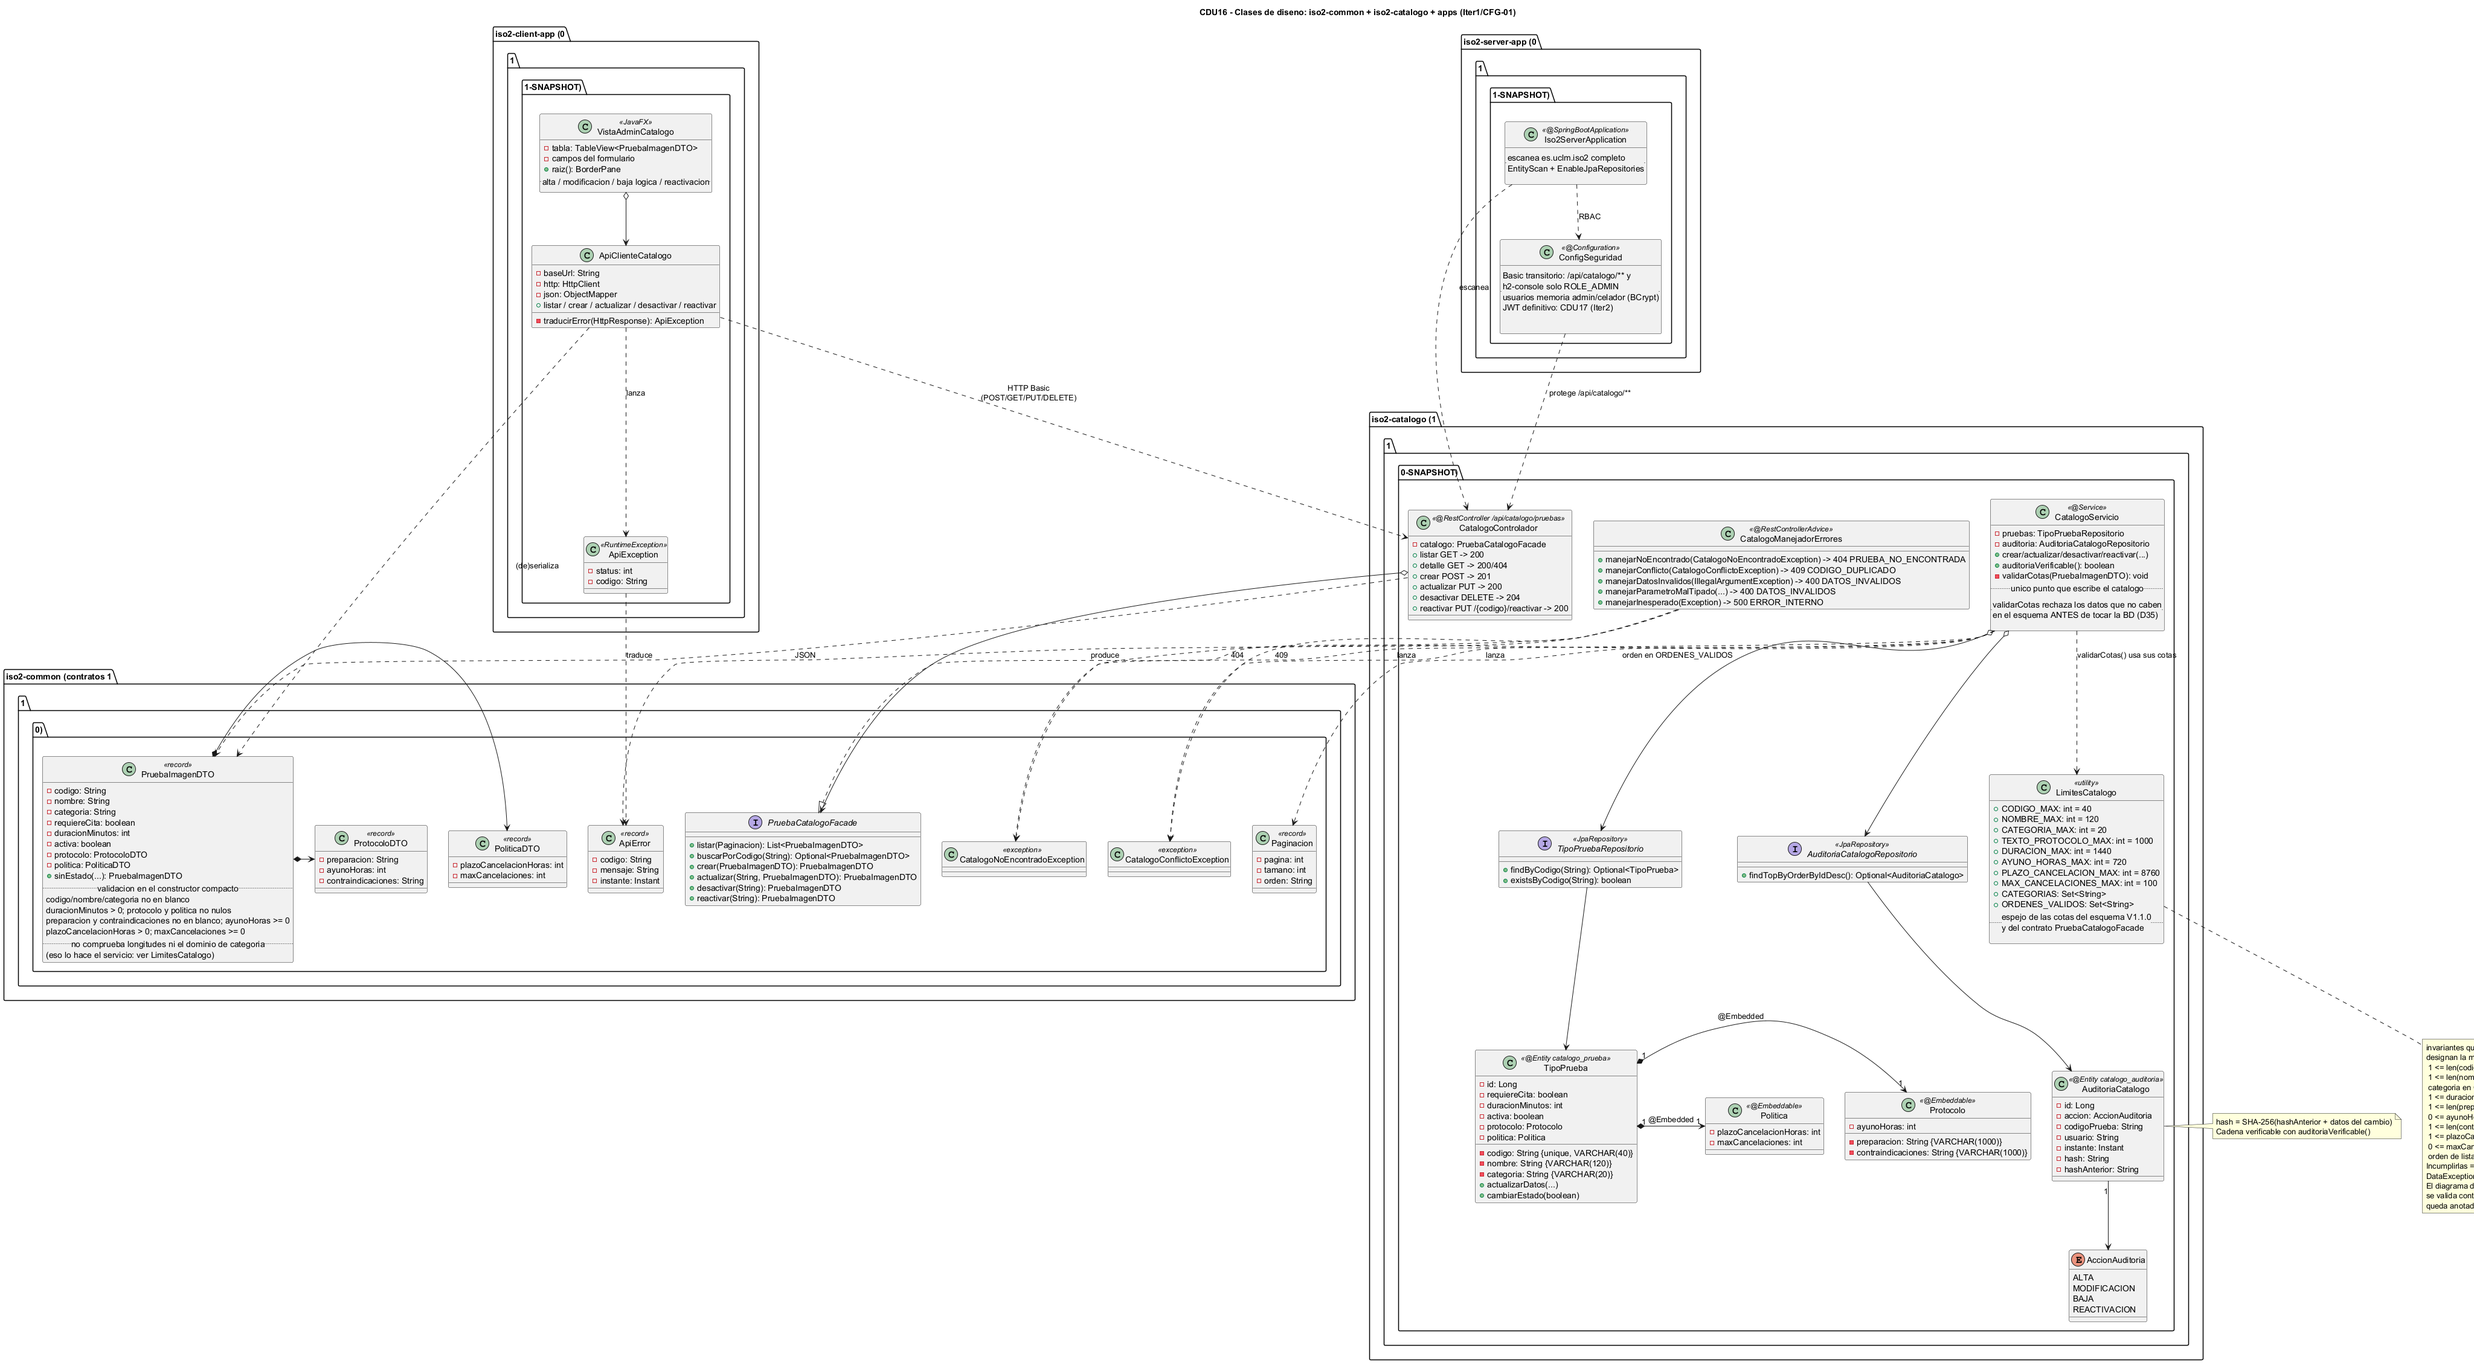
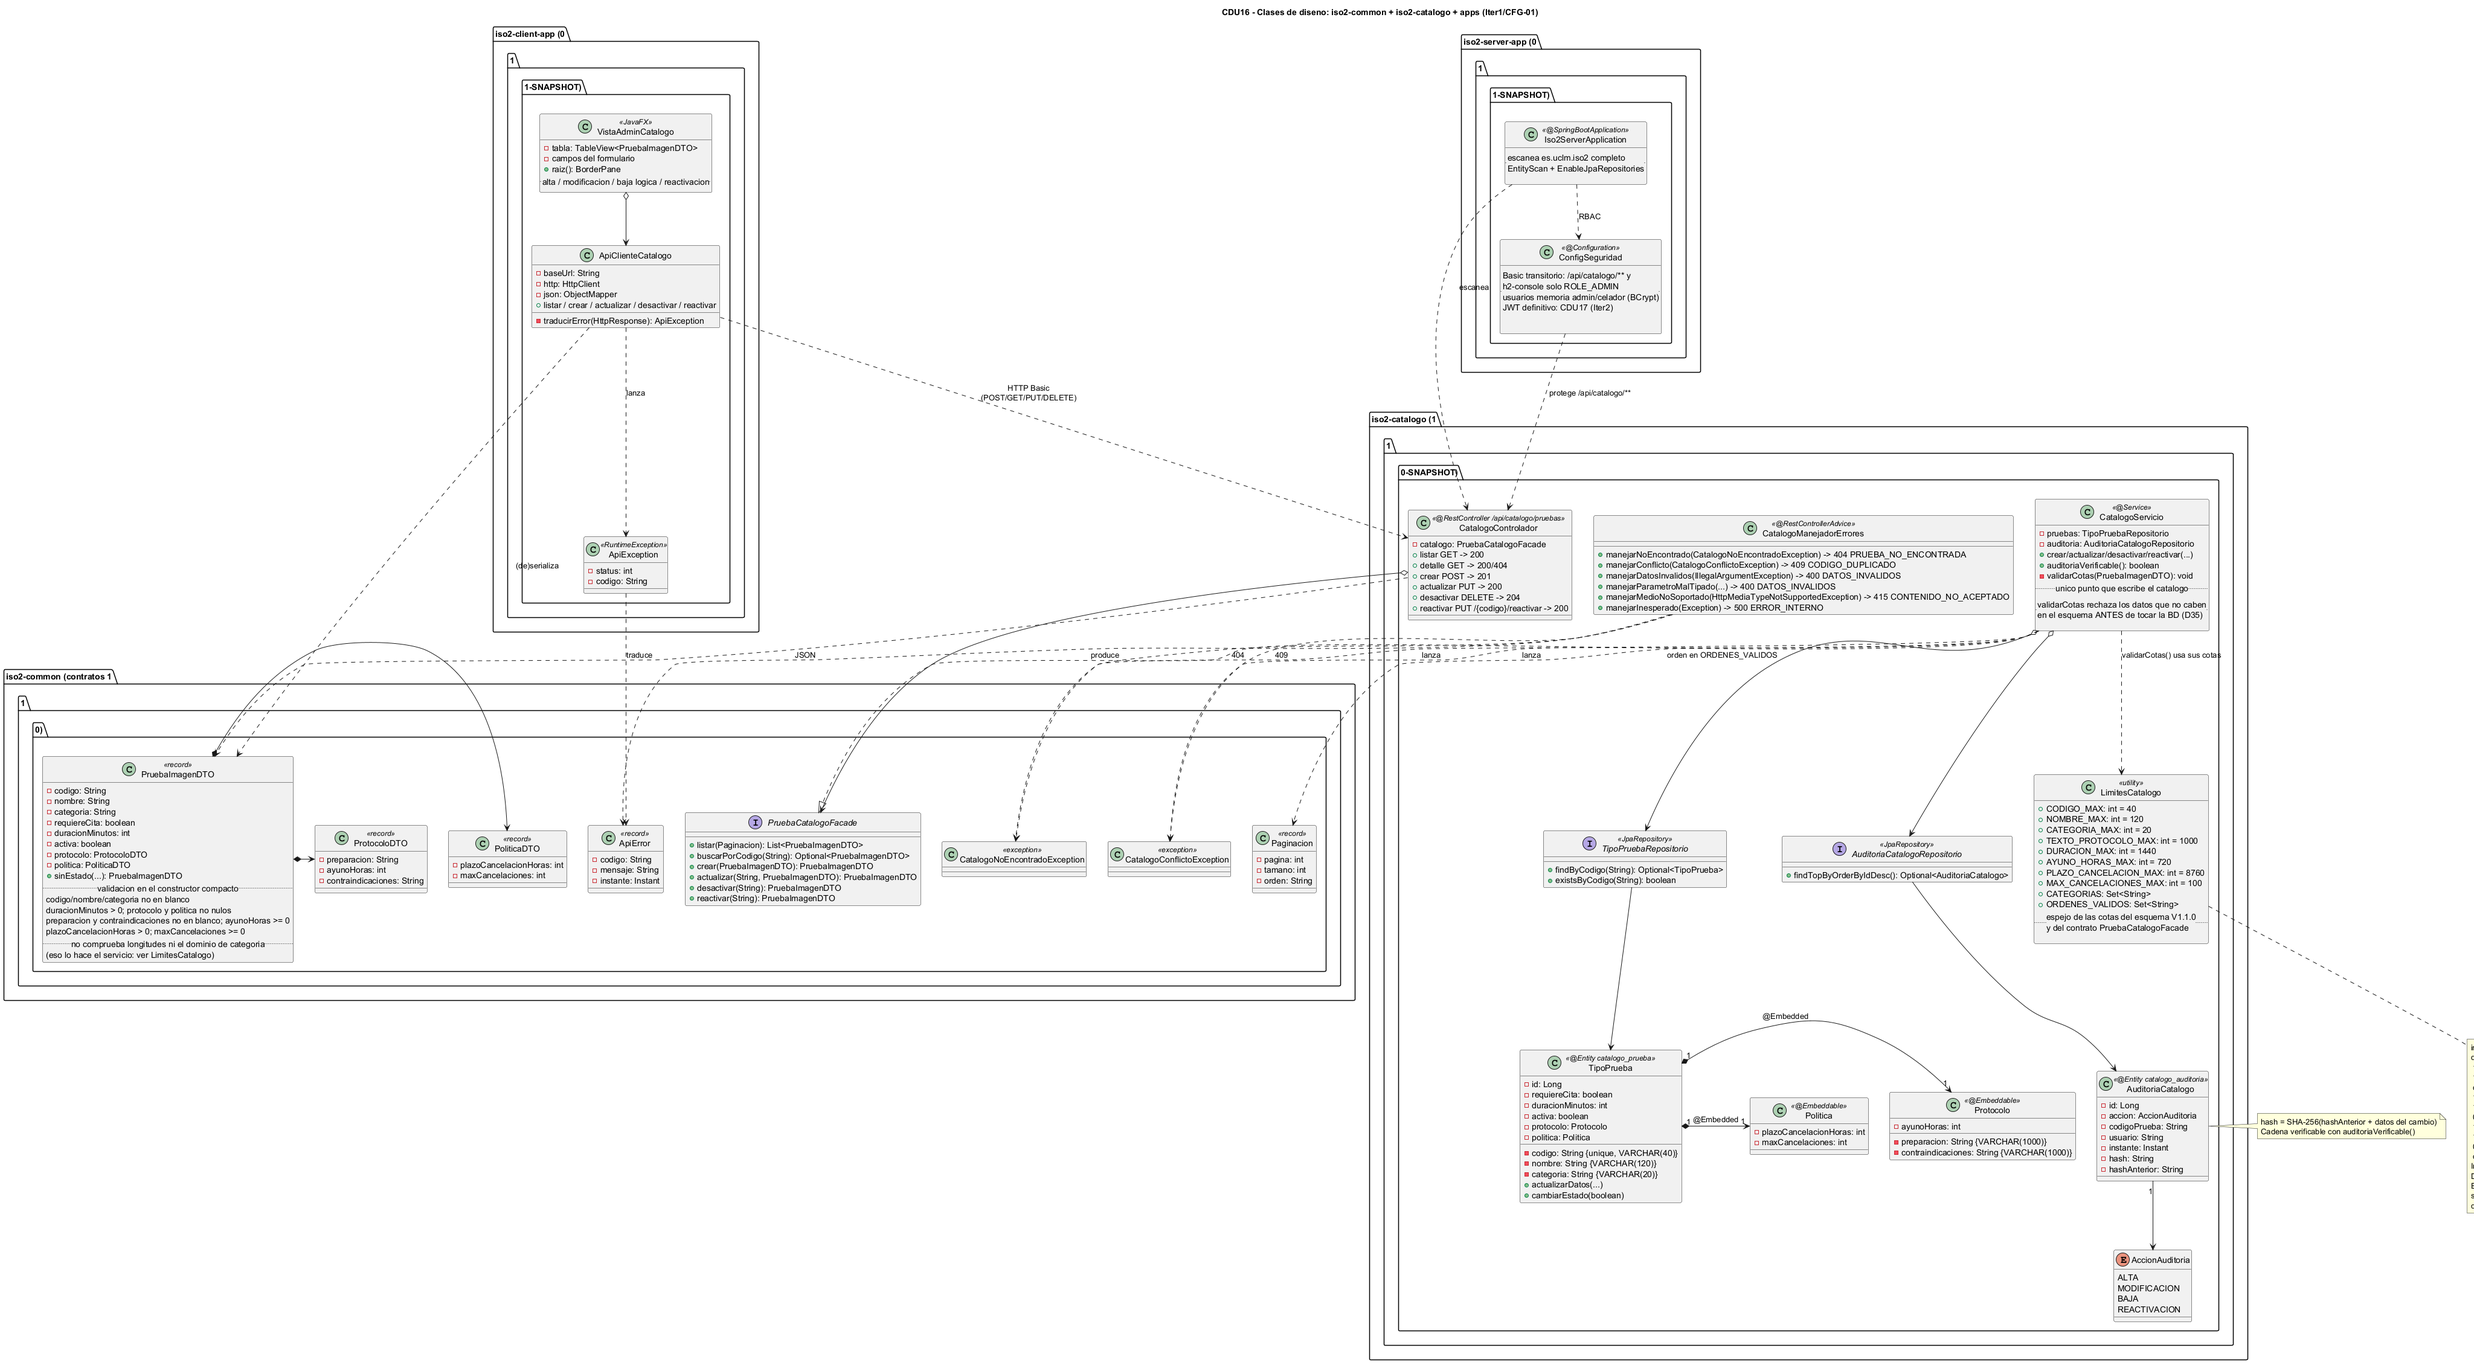
feat(iso2-catalogo · Iter1/CDU16): aplicar las cotas del catálogo y el 415 del contrato (D35)
- LimitesCatalogo centraliza las cotas del esquema (codigo 40, nombre 120,
  categoria 20, texto de protocolo 1000), los maximos administrativos y las
  listas blancas de categorias y de ordenes de listado.
- CatalogoServicio valida esas cotas en crear y actualizar antes de tocar la
  base de datos: los textos por encima del VARCHAR llegaban al INSERT y la API
  respondia 500.
- CatalogoManejadorErrores captura los parametros de consulta mal tipados
  (?pagina=abc) con 400 DATOS_INVALIDOS y el medio no soportado (text/plain)
  con 415 CONTENIDO_NO_ACEPTADO; ambos caian antes en el capturador general.
- CatalogoControlador.detalle responde 404 con cuerpo ApiError(PRUEBA_NO_ENCONTRADA).
- El .puml y el PNG de diseño de iter01 reflejan el capturador 415 antes de
  programarlo (D31).

Ref: #35

diff --git a/iso2-catalogo/src/main/java/es/uclm/iso2/catalogo/servicio/CatalogoServicio.java b/iso2-catalogo/src/main/java/es/uclm/iso2/catalogo/servicio/CatalogoServicio.java
@@ -32,6 +32,11 @@ import org.springframework.transaction.annotation.Transactional;
  * el del registro anterior; el usuario se toma del contexto de seguridad (HttpBasic hasta
  * CDU17, JWT a partir de entonces) y se registra como {@code sistema} si no hay autenticacion.</p>
  *
+ * <p>Antes de escribir, {@link #crear(PruebaImagenDTO)} y {@link #actualizar(String, PruebaImagenDTO)}
+ * comprueban las cotas del esquema en {@link LimitesCatalogo} (D35): un dato que no cabe en
+ * la base de datos se rechaza aqui con {@link IllegalArgumentException} (400 en la API) y
+ * nunca llega al INSERT.</p>
+ *
  * @since 1.1.0 (CFG-01)
  */
 @Service
@@ -71,6 +76,7 @@ public class CatalogoServicio implements PruebaCatalogoFacade {
     @Override
     @Transactional
     public PruebaImagenDTO crear(PruebaImagenDTO prueba) {
+        validarCotas(prueba);
         if (pruebas.existsByCodigo(prueba.codigo())) {
             throw new CatalogoConflictoException(
                     "el codigo de prueba " + prueba.codigo() + " ya existe en el catalogo");
@@ -90,6 +96,7 @@ public class CatalogoServicio implements PruebaCatalogoFacade {
             throw new IllegalArgumentException(
                     "el codigo del cuerpo (" + prueba.codigo() + ") no coincide con la ruta (" + codigo + ")");
         }
+        validarCotas(prueba);
         TipoPrueba entidad = buscarEntidad(codigo);
         entidad.actualizarDatos(prueba.nombre(), prueba.categoria(), prueba.requiereCita(),
                 prueba.duracionMinutos(), aProtocolo(prueba.protocolo()), aPolitica(prueba.politica()));
@@ -146,14 +153,61 @@ public class CatalogoServicio implements PruebaCatalogoFacade {
                 .orElseThrow(() -> new CatalogoNoEncontradoException(codigo));
     }
 
+    /**
+     * Comprueba las cotas del esquema que el contrato comun no mira: longitudes, el dominio
+     * de {@code categoria} y los maximos de los enteros (D35).
+     *
+     * <p>Se ejecuta antes de tocar la base de datos, en el alta y en la modificacion. Su
+     * mision es que un dato que no cabe devuelva 400 con {@code DATOS_INVALIDOS}: sin esta
+     * comprobacion el texto largo llegaba al INSERT y la {@code DataException} acababa en el
+     * capturador generico como un 500.</p>
+     *
+     * <p>El contrato ya descarta los nulos, los textos en blanco y los negativos, asi que
+     * aqui solo se comprueba la parte alta del rango.</p>
+     *
+     * @param prueba datos de la prueba recibidos por la API
+     * @throws IllegalArgumentException si alguna cota se pasa de su limite o la categoria no
+     *                                  esta entre las admitidas
+     */
+    private static void validarCotas(PruebaImagenDTO prueba) {
+        exigirLongitud(prueba.codigo(), LimitesCatalogo.CODIGO_MAX, "el codigo de prueba");
+        exigirLongitud(prueba.nombre(), LimitesCatalogo.NOMBRE_MAX, "el nombre de prueba");
+        exigirLongitud(prueba.categoria(), LimitesCatalogo.CATEGORIA_MAX, "la categoria de prueba");
+        if (!LimitesCatalogo.CATEGORIAS.contains(prueba.categoria())) {
+            throw new IllegalArgumentException("categoria no admitida en el catalogo: " + prueba.categoria());
+        }
+        exigirMax(prueba.duracionMinutos(), LimitesCatalogo.DURACION_MAX, "la duracion en minutos");
+        exigirLongitud(prueba.protocolo().preparacion(), LimitesCatalogo.TEXTO_PROTOCOLO_MAX,
+                "la preparacion del protocolo");
+        exigirMax(prueba.protocolo().ayunoHoras(), LimitesCatalogo.AYUNO_HORAS_MAX, "las horas de ayuno");
+        exigirLongitud(prueba.protocolo().contraindicaciones(), LimitesCatalogo.TEXTO_PROTOCOLO_MAX,
+                "las contraindicaciones del protocolo");
+        exigirMax(prueba.politica().plazoCancelacionHoras(), LimitesCatalogo.PLAZO_CANCELACION_MAX,
+                "el plazo de cancelacion en horas");
+        exigirMax(prueba.politica().maxCancelaciones(), LimitesCatalogo.MAX_CANCELACIONES_MAX,
+                "el maximo de cancelaciones");
+    }
+
+    private static void exigirLongitud(String valor, int max, String campo) {
+        if (valor.length() > max) {
+            throw new IllegalArgumentException(campo + " no puede superar los " + max + " caracteres");
+        }
+    }
+
+    private static void exigirMax(int valor, int max, String campo) {
+        if (valor > max) {
+            throw new IllegalArgumentException(campo + " no puede superar el valor " + max);
+        }
+    }
+
     private static String permitido(String orden) {
         if (orden == null || orden.isBlank()) {
             return ORDEN_POR_DEFECTO;
         }
-        return switch (orden) {
-            case "codigo", "nombre", "categoria", "duracionMinutos" -> orden;
-            default -> throw new IllegalArgumentException("campo de orden no permitido: " + orden);
-        };
+        if (LimitesCatalogo.ORDENES_VALIDOS.contains(orden)) {
+            return orden;
+        }
+        throw new IllegalArgumentException("campo de orden no permitido: " + orden);
     }
 
     private void registrar(AuditoriaCatalogo.AccionAuditoria accion, String codigo) {

diff --git a/iso2-catalogo/src/main/java/es/uclm/iso2/catalogo/web/CatalogoManejadorErrores.java b/iso2-catalogo/src/main/java/es/uclm/iso2/catalogo/web/CatalogoManejadorErrores.java
@@ -9,12 +9,20 @@ import org.slf4j.LoggerFactory;
 import org.springframework.http.HttpStatus;
 import org.springframework.http.ResponseEntity;
 import org.springframework.http.converter.HttpMessageNotReadableException;
+import org.springframework.web.HttpMediaTypeNotSupportedException;
+import org.springframework.web.bind.MissingServletRequestParameterException;
 import org.springframework.web.bind.annotation.ExceptionHandler;
 import org.springframework.web.bind.annotation.RestControllerAdvice;
+import org.springframework.web.method.annotation.MethodArgumentTypeMismatchException;
 
 /**
  * Traduce los errores del catalogo a respuestas HTTP coherentes con el contrato
- * (404 prueba inexistente, 409 conflicto de codigo, 400 validacion).
+ * (404 prueba inexistente, 409 conflicto de codigo, 400 validacion de cuerpo o de
+ * parametros de consulta, 415 medio de peticion no soportado).
+ *
+ * <p>El orden de los capturadores importa: los especificos ganan al de {@link Exception},
+ * que es la red de seguridad y por eso registra en el log. Desde D35 ningun fallo de
+ * validacion ni de binding debe acabar en ese ultimo.</p>
  *
  * @since 1.1.0 (CFG-01)
  */
@@ -56,6 +64,37 @@ public class CatalogoManejadorErrores {
     public ResponseEntity<ApiError> validacion(Exception e) {
         Throwable causa = e.getCause() instanceof IllegalArgumentException iae ? iae : e;
         return error(HttpStatus.BAD_REQUEST, "DATOS_INVALIDOS", causa.getMessage());
+    }
+
+    /**
+     * Parametros de consulta con un tipo o un nombre imposibles (por ejemplo
+     * {@code ?pagina=abc}, {@code ?tamano=abc} o un {@code tamano} obligatorio ausente):
+     * 400 con {@code DATOS_INVALIDOS}. Sin este capturador el fallo de binding caia en el
+     * generico y la API respondia 500 (D35).
+     *
+     * @param e fallo de binding del parametro de consulta
+     * @return respuesta 400
+     */
+    @ExceptionHandler({MethodArgumentTypeMismatchException.class, MissingServletRequestParameterException.class})
+    public ResponseEntity<ApiError> parametroMalTipado(Exception e) {
+        String detalle = e instanceof MethodArgumentTypeMismatchException tipado
+                ? "el parametro de consulta '" + tipado.getName() + "' no es del tipo esperado"
+                : "falta un parametro de consulta obligatorio";
+        return error(HttpStatus.BAD_REQUEST, "DATOS_INVALIDOS", detalle);
+    }
+
+    /**
+     * Medio de peticion no soportado (por ejemplo un cuerpo {@code text/plain} en el alta o
+     * la modificacion): 415 con {@code CONTENIDO_NO_ACEPTADO}. Sin este capturador el fallo
+     * caia en el generico y la API respondia 500 con {@code ERROR_INTERNO} (D35).
+     *
+     * @param e excepcion de negociacion de contenido
+     * @return respuesta 415
+     */
+    @ExceptionHandler(HttpMediaTypeNotSupportedException.class)
+    public ResponseEntity<ApiError> medioNoSoportado(HttpMediaTypeNotSupportedException e) {
+        return error(HttpStatus.UNSUPPORTED_MEDIA_TYPE, "CONTENIDO_NO_ACEPTADO",
+                "el Content-Type de la peticion no es compatible con el contrato de la API");
     }
 
     /**

diff --git a/iso2-catalogo/src/main/java/es/uclm/iso2/catalogo/servicio/LimitesCatalogo.java b/iso2-catalogo/src/main/java/es/uclm/iso2/catalogo/servicio/LimitesCatalogo.java
@@ -1,0 +1,69 @@
+package es.uclm.iso2.catalogo.servicio;
+
+import java.util.Set;
+
+/**
+ * Cotas que vigila la capa de dominio del catalogo antes de escribir en la base de datos
+ * (CDU16, decision D35).
+ *
+ * <p>Son el espejo del esquema autoritativo {@code V1.1.0__cdu16_catalogo.sql}. El contrato
+ * comun ({@code PruebaCatalogoFacade}) ya rechaza lo que va vacio o es negativo, pero no
+ * mira longitudes ni el dominio de {@code categoria}: sin estas cotas, un texto que no cabe
+ * en el {@code VARCHAR} llega hasta el INSERT y Hibernate lo convierte en un 500.</p>
+ *
+ * <p>No son cifras negociables por codigo. Cambiar una obliga a cambiar antes la migracion
+ * y el diagrama de clases de diseno de iter01 (D31), y a reejecutar la matriz TDOP de
+ * {@code docs/test/iter01}.</p>
+ *
+ * <p>Nota: el PUD de analisis habla de codigos de 2 a 20 caracteres y el esquema reserva
+ * {@code VARCHAR(40)}. Se valida contra la cota de almacenamiento; el desajuste esta
+ * anotado en el diagrama y pendiente de formalizar, no se inventa aqui una regla de negocio
+ * que el PUD no cifra.</p>
+ *
+ * @since 1.1.0 (CFG-01, D35)
+ */
+public final class LimitesCatalogo {
+
+    /** Caracteres maximos de {@code codigo} ({@code VARCHAR(40)}). */
+    public static final int CODIGO_MAX = 40;
+
+    /** Caracteres maximos de {@code nombre} ({@code VARCHAR(120)}). */
+    public static final int NOMBRE_MAX = 120;
+
+    /** Caracteres maximos de {@code categoria} ({@code VARCHAR(20)}). */
+    public static final int CATEGORIA_MAX = 20;
+
+    /** Caracteres maximos de los textos libres del protocolo ({@code VARCHAR(1000)}). */
+    public static final int TEXTO_PROTOCOLO_MAX = 1000;
+
+    /** Minutos maximos de duracion estimada de una prueba (24 h). */
+    public static final int DURACION_MAX = 1440;
+
+    /** Horas de ayuno maximas admisibles (30 dias). */
+    public static final int AYUNO_HORAS_MAX = 720;
+
+    /** Horas maximas de plazo de cancelacion (un ano). */
+    public static final int PLAZO_CANCELACION_MAX = 8760;
+
+    /** Maximo de cancelaciones admitido por prueba. */
+    public static final int MAX_CANCELACIONES_MAX = 100;
+
+    /**
+     * Categorias de prueba admitidas. Es el mismo dominio que muestra el formulario del
+     * cliente JavaFX ({@code VistaAdminCatalogo}), que hasta ahora no estaba defendido en
+     * el servidor: cualquier cadena se aceptaba y se guardaba.
+     */
+    public static final Set<String> CATEGORIAS =
+            Set.of("RX", "TAC", "RM", "ECO", "MED-NUC", "DENS", "OTRO");
+
+    /**
+     * Campos por los que se puede ordenar el listado. Lista blanca: evita que un valor
+     * inventado acabe en {@code Sort.by} y provoque un 500.
+     */
+    public static final Set<String> ORDENES_VALIDOS =
+            Set.of("codigo", "nombre", "categoria", "duracionMinutos");
+
+    /** Utilidad sin instancia. */
+    private LimitesCatalogo() {
+    }
+}

diff --git a/iso2-catalogo/src/main/java/es/uclm/iso2/catalogo/web/CatalogoControlador.java b/iso2-catalogo/src/main/java/es/uclm/iso2/catalogo/web/CatalogoControlador.java
@@ -1,5 +1,6 @@
 package es.uclm.iso2.catalogo.web;
 
+import es.uclm.iso2.common.catalogo.CatalogoNoEncontradoException;
 import es.uclm.iso2.common.catalogo.PruebaCatalogoFacade;
 import es.uclm.iso2.common.catalogo.PruebaCatalogoFacade.PruebaImagenDTO;
 import es.uclm.iso2.common.shared.Paginacion;
@@ -59,13 +60,14 @@ public class CatalogoControlador {
      * Detalle de una prueba por codigo.
      *
      * @param codigo codigo de la prueba
-     * @return 200 con la prueba o 404 si no existe
+     * @return 200 con la prueba, o 404 con {@code ApiError(PRUEBA_NO_ENCONTRADA)} si no
+     *         existe: el cuerpo de error es el mismo que devuelven el PUT y el DELETE, de
+     *         modo que el cliente puede leer el codigo de error en cualquier operacion
      */
     @GetMapping("/{codigo}")
     public ResponseEntity<PruebaImagenDTO> detalle(@PathVariable String codigo) {
-        return catalogo.buscarPorCodigo(codigo)
-                .map(ResponseEntity::ok)
-                .orElseGet(() -> ResponseEntity.notFound().build());
+        return ResponseEntity.ok(catalogo.buscarPorCodigo(codigo)
+                .orElseThrow(() -> new CatalogoNoEncontradoException(codigo)));
     }
 
     /**
